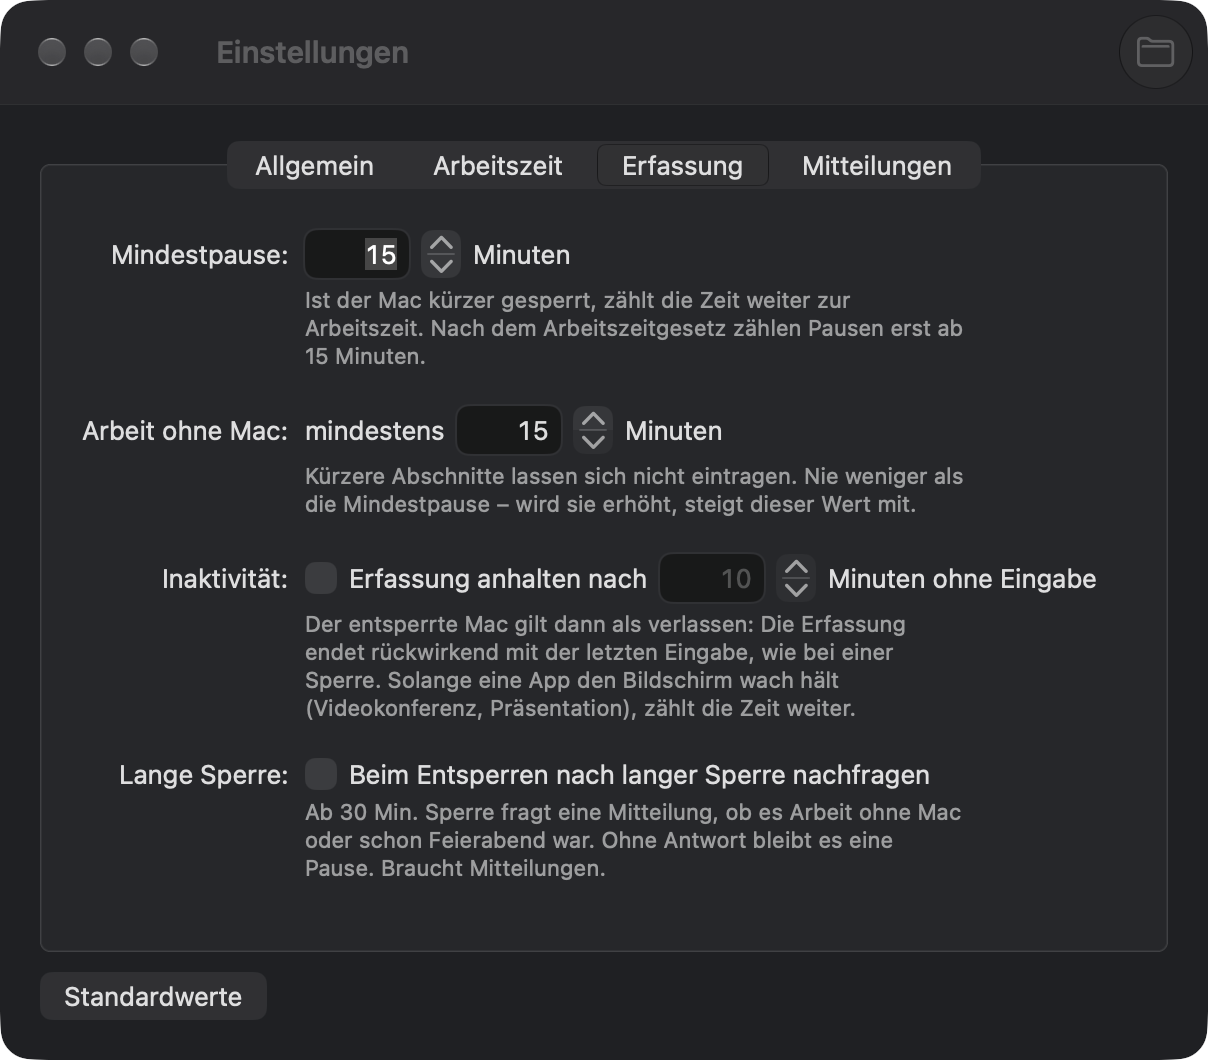
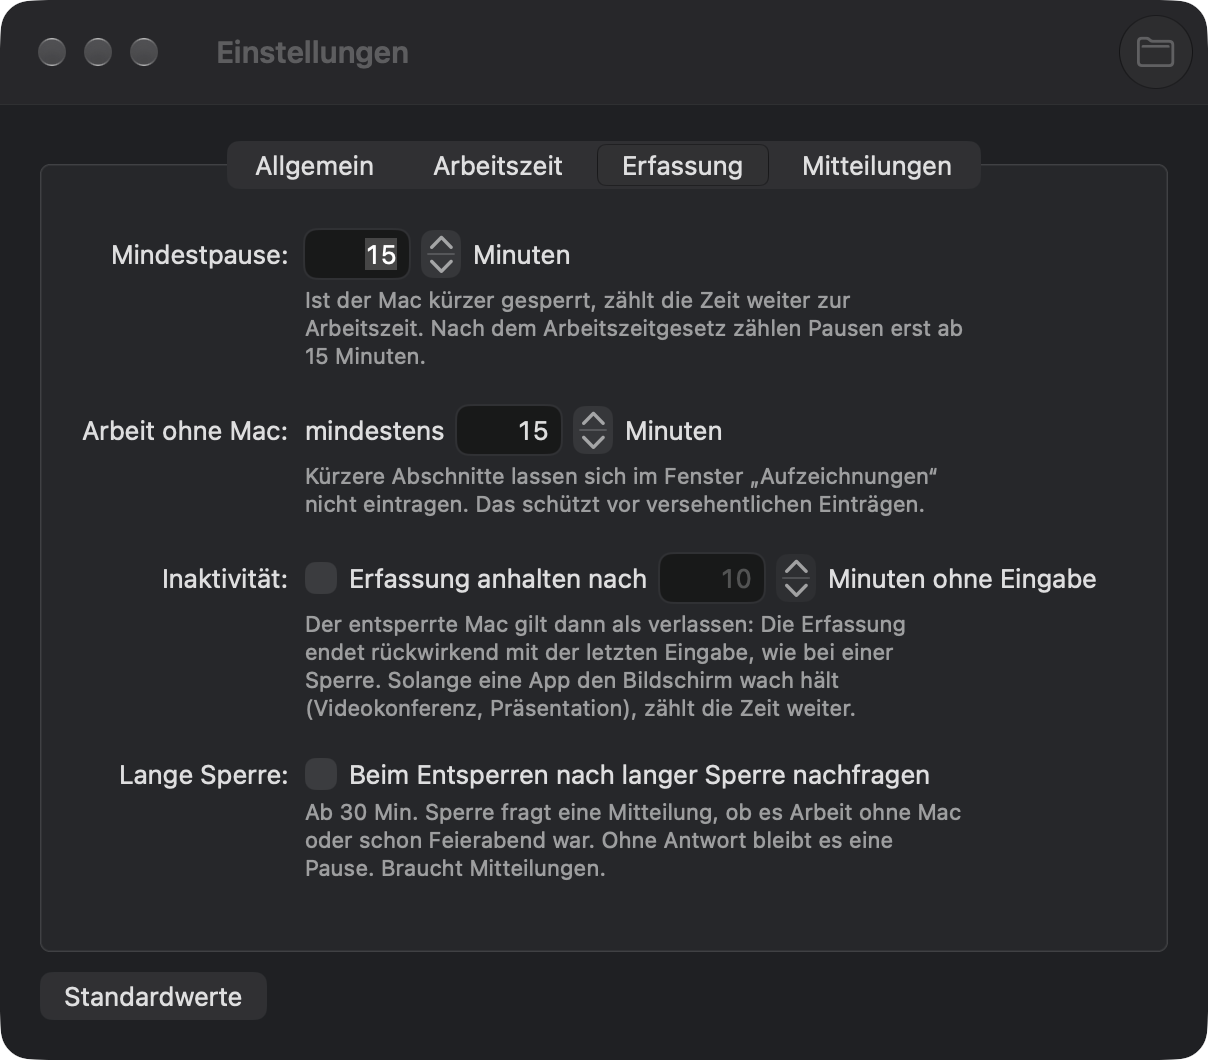
Arbeit ohne Mac: Mindestdauer von der Mindestpause entkoppelt
Die Mindestdauer beim Eintragen von Hand durfte bisher nie unter der
Mindestpause liegen und stieg mit ihr. Das sperrte kurze Termine in einer
langen Pause oder vor dem Arbeitsbeginn aus, obwohl die Grenze nur vor
versehentlichen Einträgen schützen soll.

- Bereich 1 bis 240 Minuten, Standard weiter 15
- Pfeile gehen in Fünferschritten über glatte Werte
- Text in den Einstellungen, Bild, README und CHANGELOG angepasst

Changed region(s): [[0.245, 0.4358, 0.7964, 0.4981]]

diff --git a/src/settings_window.rs b/src/settings_window.rs
@@ -21,7 +21,7 @@ use crate::glyphs;
 use crate::hotkey;
 use crate::login_item;
 use crate::notify::{self, Permission};
-use crate::rules::{self, IconSet, Settings, IDLE_RANGE, MIN_PAUSE_RANGE, MIN_WORK_MAX, WEEKLY_RANGE};
+use crate::rules::{self, IconSet, Settings, IDLE_RANGE, MIN_PAUSE_RANGE, MIN_WORK_RANGE, WEEKLY_RANGE};
 use crate::store;
 use chrono::{DateTime, Datelike, Duration, Local, NaiveDate, NaiveDateTime, TimeZone};
 use objc2::rc::Retained;
@@ -233,8 +233,8 @@ define_class!(
         #[unsafe(method(workStepped:))]
         fn work_stepped(&self, _sender: Option<&AnyObject>) {
             with_state(|s| {
-                let value = s.work_stepper.integerValue() as i64 * 60;
-                s.set_work(Some(value));
+                let value = step_minutes(s.settings.min_work / 60, s.work_stepper.integerValue() as i64);
+                s.set_work(Some(value * 60));
             });
             save();
         }
@@ -404,7 +404,6 @@ impl State {
         self.pause.setStringValue(&ns(&(s.min_pause / 60).to_string()));
         self.pause_stepper.setIntegerValue((s.min_pause / 60) as isize);
         self.work.setStringValue(&ns(&(s.min_work / 60).to_string()));
-        self.work_stepper.setMinValue((s.min_pause / 60) as f64);
         self.work_stepper.setIntegerValue((s.min_work / 60) as isize);
         self.daily_note.setStringValue(&ns(&format!(
             "{}  ·  {} pro Arbeitstag",
@@ -458,8 +457,6 @@ impl State {
         match value {
             Some(v) if (MIN_PAUSE_RANGE.0..=MIN_PAUSE_RANGE.1).contains(&v) => {
                 self.settings.min_pause = v;
-                // Arbeit ohne Mac darf nicht kürzer als die Mindestpause sein.
-                self.settings.min_work = self.settings.min_work.max(v);
                 self.error.setHidden(true);
             }
             _ => self.show_error(&format!(
@@ -471,16 +468,15 @@ impl State {
     }
 
     fn set_work(&mut self, value: Option<i64>) {
-        let min = self.settings.min_pause;
         match value {
-            Some(v) if (min..=MIN_WORK_MAX).contains(&v) => {
+            Some(v) if (MIN_WORK_RANGE.0..=MIN_WORK_RANGE.1).contains(&v) => {
                 self.settings.min_work = v;
                 self.error.setHidden(true);
             }
             _ => self.show_error(&format!(
-                "Arbeit ohne Mac muss mindestens {} Min. (die Mindestpause) und höchstens {} Min. dauern.",
-                min / 60,
-                MIN_WORK_MAX / 60
+                "Die Mindestdauer für Arbeit ohne Mac muss zwischen {} und {} Minuten liegen.",
+                MIN_WORK_RANGE.0 / 60,
+                MIN_WORK_RANGE.1 / 60
             )),
         }
     }
@@ -595,6 +591,26 @@ fn number_field(target: &Controller, action: Sel) -> Retained<NSTextField> {
         f.setAction(Some(action));
     }
     f
+}
+
+/// Schrittweite der Pfeile für die Mindestdauer von Arbeit ohne Mac (Minuten).
+const WORK_STEP: i64 = 5;
+
+/// Neuer Wert nach einem Klick auf die Pfeile, wenn vorher `old` Minuten galten und der
+/// Schalter `stepped` meldet: Es geht in Fünferschritten über glatte Werte (1 → 5 → 10 …),
+/// auch von einem krummen eingetippten Wert aus (12 → 15 bzw. 10), und unter 5 direkt auf
+/// die Untergrenze.
+fn step_minutes(old: i64, stepped: i64) -> i64 {
+    let (min, max) = (MIN_WORK_RANGE.0 / 60, MIN_WORK_RANGE.1 / 60);
+    let value = if stepped > old {
+        (stepped / WORK_STEP * WORK_STEP).max(old + 1)
+    } else if stepped < old {
+        let up = (stepped + WORK_STEP - 1) / WORK_STEP * WORK_STEP;
+        if up < old { up } else { min }
+    } else {
+        old
+    };
+    value.clamp(min, max)
 }
 
 fn stepper(target: &Controller, action: Sel, min: f64, max: f64, step: f64) -> Retained<NSStepper> {
@@ -783,7 +799,13 @@ fn build(on_change: fn()) -> State {
         1.0,
     );
     let work = number_field(target, sel!(workChanged:));
-    let work_stepper = stepper(target, sel!(workStepped:), (MIN_PAUSE_RANGE.0 / 60) as f64, (MIN_WORK_MAX / 60) as f64, 5.0);
+    let work_stepper = stepper(
+        target,
+        sel!(workStepped:),
+        (MIN_WORK_RANGE.0 / 60) as f64,
+        (MIN_WORK_RANGE.1 / 60) as f64,
+        WORK_STEP as f64,
+    );
     let daily_note = caption("");
     let icon_popup = icon_popup(target);
     let (preview_row, icon_preview) = icon_preview();
@@ -889,8 +911,8 @@ fn build(on_change: fn()) -> State {
                 row(
                     None,
                     &caption(
-                        "Kürzere Abschnitte lassen sich nicht eintragen. Nie weniger als die Mindestpause – \
-                         wird sie erhöht, steigt dieser Wert mit.",
+                        "Kürzere Abschnitte lassen sich im Fenster „Aufzeichnungen“ nicht eintragen. \
+                         Das schützt vor versehentlichen Einträgen.",
                     ),
                 ),
                 row(Some("Inaktivität:"), &idle_row),
@@ -1151,4 +1173,26 @@ pub fn screenshot(path: &std::path::Path) -> Result<(), String> {
     let data = unsafe { rep.representationUsingType_properties(NSBitmapImageFileType::PNG, &objc2_foundation::NSDictionary::new()) }
         .ok_or("PNG konnte nicht erzeugt werden")?;
     std::fs::write(path, data.to_vec()).map_err(|e| e.to_string())
+}
+
+#[cfg(test)]
+mod tests {
+    use super::*;
+
+    #[test]
+    fn work_stepper_moves_over_round_values() {
+        // abwärts: 15 → 10 → 5 → 1 (der Schalter bleibt an der Untergrenze stehen)
+        assert_eq!(step_minutes(15, 10), 10);
+        assert_eq!(step_minutes(10, 5), 5);
+        assert_eq!(step_minutes(5, 1), 1);
+        assert_eq!(step_minutes(3, 1), 1);
+        assert_eq!(step_minutes(1, 1), 1);
+        // aufwärts: 1 → 5 → 10
+        assert_eq!(step_minutes(1, 6), 5);
+        assert_eq!(step_minutes(5, 10), 10);
+        // von einem krummen Wert zum nächsten glatten
+        assert_eq!(step_minutes(12, 17), 15);
+        assert_eq!(step_minutes(12, 7), 10);
+        assert_eq!(step_minutes(240, 240), 240);
+    }
 }

diff --git a/src/rules.rs b/src/rules.rs
@@ -40,8 +40,10 @@ pub const ASK_AFTER_LOCK: i64 = 30 * 60;
 /// Grenzen der Einstellungen.
 pub const MIN_PAUSE_RANGE: (i64, i64) = (60, 120 * 60);
 pub const WEEKLY_RANGE: (i64, i64) = (3600, 60 * 3600);
-/// Höchstwert für die Mindestdauer von Arbeit ohne Mac (Untergrenze: die Mindestpause).
-pub const MIN_WORK_MAX: i64 = 240 * 60;
+/// Grenzen für die Mindestdauer von Arbeit ohne Mac beim Eintragen. Mit der Mindestpause hat
+/// sie nichts zu tun: Auch ein kurzer Termin in einer langen Pause oder vor dem Arbeitsbeginn
+/// ist Arbeit; die Grenze schützt nur vor versehentlichen Einträgen.
+pub const MIN_WORK_RANGE: (i64, i64) = (60, 240 * 60);
 
 /// Symbolsatz für die Menüleiste.
 #[derive(Clone, Copy, Debug, Default, PartialEq, Eq, Hash)]
@@ -120,7 +122,7 @@ impl IconSet {
 pub struct Settings {
     /// Mindestdauer einer Pause: kürzere Sperrzeiten zählen zur Arbeitszeit.
     pub min_pause: i64,
-    /// Mindestdauer von Arbeit ohne Mac beim Eintragen (nie kürzer als `min_pause`).
+    /// Mindestdauer von Arbeit ohne Mac beim Eintragen von Hand (unabhängig von `min_pause`).
     pub min_work: i64,
     /// Regelwochenarbeitszeit.
     pub weekly_target: i64,
@@ -178,10 +180,9 @@ impl Settings {
     /// Werte in gültige Grenzen bringen (z. B. nach dem Laden aus der Datenbank).
     pub fn sanitized(self) -> Self {
         let d = Self::default();
-        let min_pause = self.min_pause.clamp(MIN_PAUSE_RANGE.0, MIN_PAUSE_RANGE.1);
         let mut s = Self {
-            min_pause,
-            min_work: self.min_work.clamp(min_pause, MIN_WORK_MAX),
+            min_pause: self.min_pause.clamp(MIN_PAUSE_RANGE.0, MIN_PAUSE_RANGE.1),
+            min_work: self.min_work.clamp(MIN_WORK_RANGE.0, MIN_WORK_RANGE.1),
             weekly_target: self.weekly_target.clamp(WEEKLY_RANGE.0, WEEKLY_RANGE.1),
             frame_from: self.frame_from.clamp(0, DAY_END),
             frame_to: self.frame_to.clamp(0, DAY_END),
@@ -661,11 +662,12 @@ mod tests {
         assert_eq!((fixed.frame_from, fixed.frame_to), (h(7, 0), h(22, 0)));
         assert_eq!(fixed.min_pause, 60);
         assert_eq!(fixed.weekly_target, 3600);
-        // Arbeit ohne Mac nie kürzer als die Mindestpause.
         assert_eq!(fixed.min_work, s.min_work);
-        let s20 = Settings { min_pause: 20 * 60, min_work: 15 * 60, ..s }.sanitized();
-        assert_eq!(s20.min_work, 20 * 60);
-        assert_eq!(Settings { min_work: 999 * 60, ..s }.sanitized().min_work, MIN_WORK_MAX);
+        // Die Mindestdauer von Arbeit ohne Mac hängt nicht an der Mindestpause.
+        let s20 = Settings { min_pause: 20 * 60, min_work: 5 * 60, ..s }.sanitized();
+        assert_eq!((s20.min_pause, s20.min_work), (20 * 60, 5 * 60));
+        assert_eq!(Settings { min_work: 0, ..s }.sanitized().min_work, MIN_WORK_RANGE.0);
+        assert_eq!(Settings { min_work: 999 * 60, ..s }.sanitized().min_work, MIN_WORK_RANGE.1);
     }
 
     #[test]

diff --git a/src/day.rs b/src/day.rs
@@ -963,6 +963,22 @@ mod tests {
     }
 
     #[test]
+    fn short_work_without_mac_counts_like_any_other() {
+        // Zehn Minuten telefoniert, mitten in der Mittagssperre 11:58–12:41: Davor und danach
+        // bleibt je eine Pause (16 und 17 Min.) – die Dauer des Termins spielt keine Rolle.
+        let mut d = day();
+        d.add_work(h(12, 14), h(12, 24), "Telefonat");
+        let r = d.record(&st()).unwrap();
+        assert_eq!((r.work_secs, r.pause_secs()), (h(3, 46) + h(4, 49) + h(0, 10), h(0, 33)));
+        assert_eq!(d.pauses(&st()), vec![Span::new(h(11, 58), h(12, 14)), Span::new(h(12, 24), h(12, 41))]);
+        // Zehn Minuten lange vor dem ersten Entsperren: zählen und ziehen den Beginn vor.
+        let mut d = day();
+        d.add_work(h(7, 30), h(7, 40), "Telefonat");
+        let r = d.record(&st()).unwrap();
+        assert_eq!((r.first_start, r.work_secs), (h(7, 30), h(0, 10) + h(3, 46) + h(4, 49)));
+    }
+
+    #[test]
     fn work_without_mac_outside_start_and_end() {
         let mut d = day();
         d.start = Some(h(8, 30));

diff --git a/README.md b/README.md
@@ -243,7 +243,7 @@ Die Einstellungen stehen auf vier Reitern:
 |              | Arbeitstage            | Mo bis Fr einzeln wählbar; das Wochensoll verteilt sich gleichmäßig auf sie (angezeigt als „4-Tage-Woche · 9:45 h pro Arbeitstag“) | Mo–Fr |
 |              | Zeitkonto              | Zählt alle erfassten Tage oder erst ab einem Datum; der Übertrag ist der Saldo aus der Zeit davor (z. B. `+12:30`) | alle Tage, kein Übertrag |
 | Erfassung    | Mindestpause           | Ab dieser Sperrdauer gilt eine Unterbrechung als Pause                  | 15 Min.         |
-|              | Arbeit ohne Mac        | „mindestens … Minuten“: kürzere Abschnitte lassen sich nicht eintragen; nie weniger als die Mindestpause | 15 Min. |
+|              | Arbeit ohne Mac        | „mindestens … Minuten“ (1 bis 240): kürzere Abschnitte lassen sich im Fenster „Aufzeichnungen“ nicht eintragen | 15 Min. |
 |              | Inaktivität            | Erfassung anhalten nach so vielen Minuten ohne Eingabe                  | aus (10 Min.)   |
 |              | Lange Sperre           | Beim Entsperren nach mindestens 30 Min. Sperre nachfragen               | aus             |
 | Mitteilungen | Mitteilungen           | Zeigt, ob Tagwerk Mitteilungen senden darf; wenn nicht, öffnet „Systemeinstellungen öffnen“ die Mitteilungseinstellungen von Tagwerk | – |
@@ -256,8 +256,11 @@ Die Einstellungen stehen auf vier Reitern:
   Arbeitstagen – gibt es kein Soll; Arbeit dort zählt als Mehrarbeit. Das Zeitkonto zählt
   ohne Haken alle erfassten Tage, mit Haken erst ab dem Datum; der Übertrag wird mit
   Vorzeichen eingegeben (`+12:30`, `−3:15`).
-- **Erfassung** – die Mindestdauer für Arbeit ohne Mac liegt nie unter der Mindestpause:
-  Wird die Mindestpause erhöht, steigt sie mit. Die Minuten für die Inaktivität lassen sich
+- **Erfassung** – die Mindestdauer für Arbeit ohne Mac schützt vor versehentlichen
+  Einträgen und hängt nicht an der Mindestpause: Auch ein Telefonat von zehn Minuten in
+  einer langen Mittagspause oder vor dem Arbeitsbeginn lässt sich eintragen, wenn der Wert
+  entsprechend gesenkt ist. Sie gilt für Einträge von Hand im Inspektor und in der
+  Wochenansicht, nicht für „Ohne Mac weiterarbeiten“ im Menü. Die Minuten für die Inaktivität lassen sich
   erst einstellen, wenn die Erkennung eingeschaltet ist. Die Nachfrage nach langer Sperre
   braucht Mitteilungen.
 - **Mitteilungen** – oben steht, ob macOS Mitteilungen von Tagwerk zulässt (erlaubt, nicht

diff --git a/CHANGELOG.md b/CHANGELOG.md
@@ -115,6 +115,12 @@ folgen der [Semantischen Versionierung](https://semver.org/lang/de/).
   eingetragen ist.
 - Einstellungen › Erfassung: „Arbeit ohne Mac: mindestens 15 Minuten“ sagt jetzt selbst,
   dass es um die Mindestdauer geht; der Text darunter ist kürzer.
+- Die Mindestdauer für Arbeit ohne Mac hängt nicht mehr an der Mindestpause. Bisher durfte
+  sie nie darunter liegen und stieg mit ihr – ein Telefonat von zehn Minuten in einer
+  langen Mittagspause oder vor dem Arbeitsbeginn ließ sich so nicht eintragen, obwohl es
+  mit der Frage, ab wann eine Sperre eine Pause ist, nichts zu tun hat. Jetzt sind 1 bis
+  240 Minuten möglich, der Standard bleibt 15; die Pfeile gehen in Fünferschritten. Für
+  gespeicherte Werte und Tage ändert sich nichts.
 - Die Bilder im README sind neu und zeigen den aktuellen Stand: das Menü mit Zeitkonto,
   die Ansicht „Woche“ im Fenster „Aufzeichnungen“ und alle vier Reiter der Einstellungen,
   die jetzt auch einzeln beschrieben sind.
